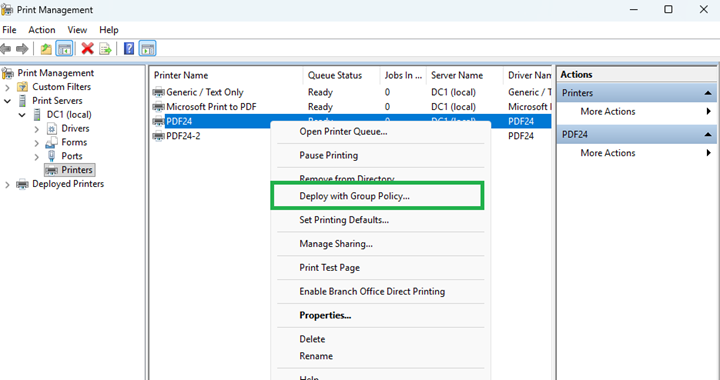
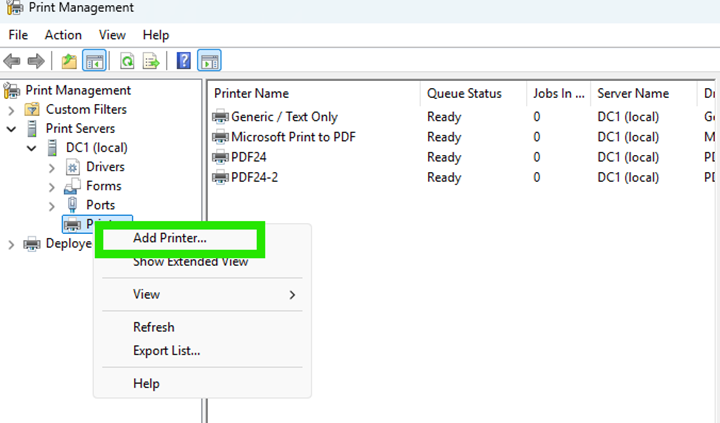
Actualitzar la documentació del servidor d'impressió amb instruccions sobre la instal·lació d'impressores i la creació de cues d'impressió, afegint imatges il·lustratives.

diff --git a/NF2_SOX_Windows/UD11-Recursos/AA2.ServidorImpressio.md b/NF2_SOX_Windows/UD11-Recursos/AA2.ServidorImpressio.md
@@ -6,7 +6,7 @@ A una organització un ús eficient de les impressores és fonamental per a la p
 
 En aquesta activitat veurem com configurar un servidor d'impressió en un entorn de Directori Actiu, com crear cues d'impressió amb múltiples impressores i com desplegar les impressores als usuaris de manera eficient mitjançant polítiques de grup.
 
-## Pas previ: instal·lació impressora en el servidor
+## Instal·lació impressores en el servidor
 
 Per agregar una impressora, cal anar "Setting", "Devices", "Printers & Scanners" i fent botó dret seleccionar "Add Printer". Es pot afegir una impressora local o de xarxa, i es poden instal·lar els controladors necessaris.
 
@@ -30,6 +30,17 @@ Un cop fet això, ens apareixerà a la llista d'impressores disponibles.
 
 ![Impressora PDF24](./img/UD11_28.png)
 
+### Creació de cues d'impressió
+
+Una cua d'impressió permet gestionar els treballs d'impressió que s'enviin a diferents impressores, d'aquesta manera els usuaris envien el treball a una "impressora única", i després les impressores reals es van repartint la càrrega d'impressió, això ens aporta alta disponibilitat i menys temps d'espera, sobretot en entorns grans.
+
+Per habilitar la cua:
+
+- Se selecciona la primera de les impressores i a Propietats anem a ports.
+- Activem `Enable Printer pooling` i s'afegeix el port corresponent que apareix la segona impressora.
+
+A la guia indicada anteriorment, teniu tot el procés de creació de la cua d'impressió amb les dues impressores virtuals PDF24.
+
 ## Compartició bàsica d'impressores
 
 La compartició bàsica usant el protocol SMB, es pot usar tant en entorns de servidor-client, com en entorns de grup de treball, on un equip Windows 10 o 11 comparteix una impressora amb altres equips de la xarxa. Per compartir una impressora, s'accedeix a les opcions "Impressores i escàners" del sistema operatiu, es selecciona la impressora que es vol compartir i se selecciona l'opció "Administrar".
@@ -37,6 +48,8 @@ La compartició bàsica usant el protocol SMB, es pot usar tant en entorns de se
 A continuació, es fa clic a "Propietats de la impressora" i es selecciona la pestanya "Compartir". Aquí es marca l'opció "Comparteix aquesta impressora" i es pot assignar un nom de compartició que serà visible per als altres equips de la xarxa.
 
 ![Compartició d'impressores](./img/UD11_29.png)
+
+Un cop compartida, en els clients apareixerà la impressora compartida a la llista d'impressores disponibles, i podran enviar treballs d'impressió a través de la xarxa.
 
 ## Servidor d'impressió
 
@@ -52,24 +65,31 @@ Un cop instal·lat el rol, s'accedeix a la consola de "Gestió d'impressores" o 
 
 Un dels avantatges de tenir un servidor d’impressió, és que poden establir restriccions sobre les impressores.
 
-### Creació de cues d'impressió
-
-Una cua d'impressió permet gestionar els treballs d'impressió que s'enviin a diferents impressores, d'aquesta manera els usuaris envien el treball a una "impressora única", i després les impressores reals es van repartint la càrrega d'impressió, això ens aporta alta disponibilitat i menys temps d'espera, sobretot en entorns grans.
-
-Per habilitar la cua, seleccionem la primera de les impressores i a Propietats anem a ports.
-Seleccionem Enable Printer pooling i afegim el port 2 on veiem que apareix la segona impressora.
-
-A la [guia](https://github.com/cfugarolas/activitats/blob/main/activitat3/pdf24.md) teniu l'explicació de com crear la cua, en aquest cas, de dos impressores virtuals PDF24 al Server 2025.
-
 ### Desplegament d'impressores amb GPO
 
 Per tal que els clients puguin usar les impressores, cal que la tinguin mapejada. Es pot fer manualment a l’equip, però des del punt de vista de tècnics de sistemes, el més adient és fer un desplegament via GPO. Via GPO podem decidir a quina OU o grups despleguem la impressora.
+
+Ho farem instal·lant una nova impressora, però en aquest cas, des del servidor d’impressió, triant l'opció "Add Printer".
 
 ![Desplegament d'impressores amb GPO](./img/UD11_32.png)
 
 ![Desplegament d'impressores amb GPO](./img/UD11_33.png)
 
-En aquest cas, hem creat una GPO per tot el domini, però es pot fer per a una OU concreta. Un cop aplicada i actualitzada la GPO al client, aquest veurà la impressora disponible a la llista d'impressores.
+Per instal·lar la impressora ja ens surt l'opció "Install a new driver" i seleccionem el model, si es disposa dels drivers corresponents els usaríem, sinó triem un model genèric.
+
+![Desplegament d'impressores amb GPO](./img/UD11_34.png)
+
+Ara ja es pot desplegar als clients usant una GPO, d'aquesta manera, a diferència del punt anterior, el client no cal que cerqui la impressora, sinó que li apareixerà automàticament a la llista d'impressores disponibles.
+
+![Desplegament d'impressores amb GPO](./img/UD11_35.png)
+
+En aquest exemple, hem creat una GPO per tot el domini, però es pot fer per a una OU concreta.
+
+Seleccionem la GPO, triem "User Configuration", tot i que també es pot fer el desplegament per "Computer Configuration" i cliquem a "Add":
+
+![Desplegament d'impressores amb GPO](./img/UD11_36.png)
+
+Ja només quedarà forçar l'aplicació de la GPO als clients i comprovar que la impressora apareix a la llista d'impressores disponibles.
 
 ## Enllaços d'interès
 
